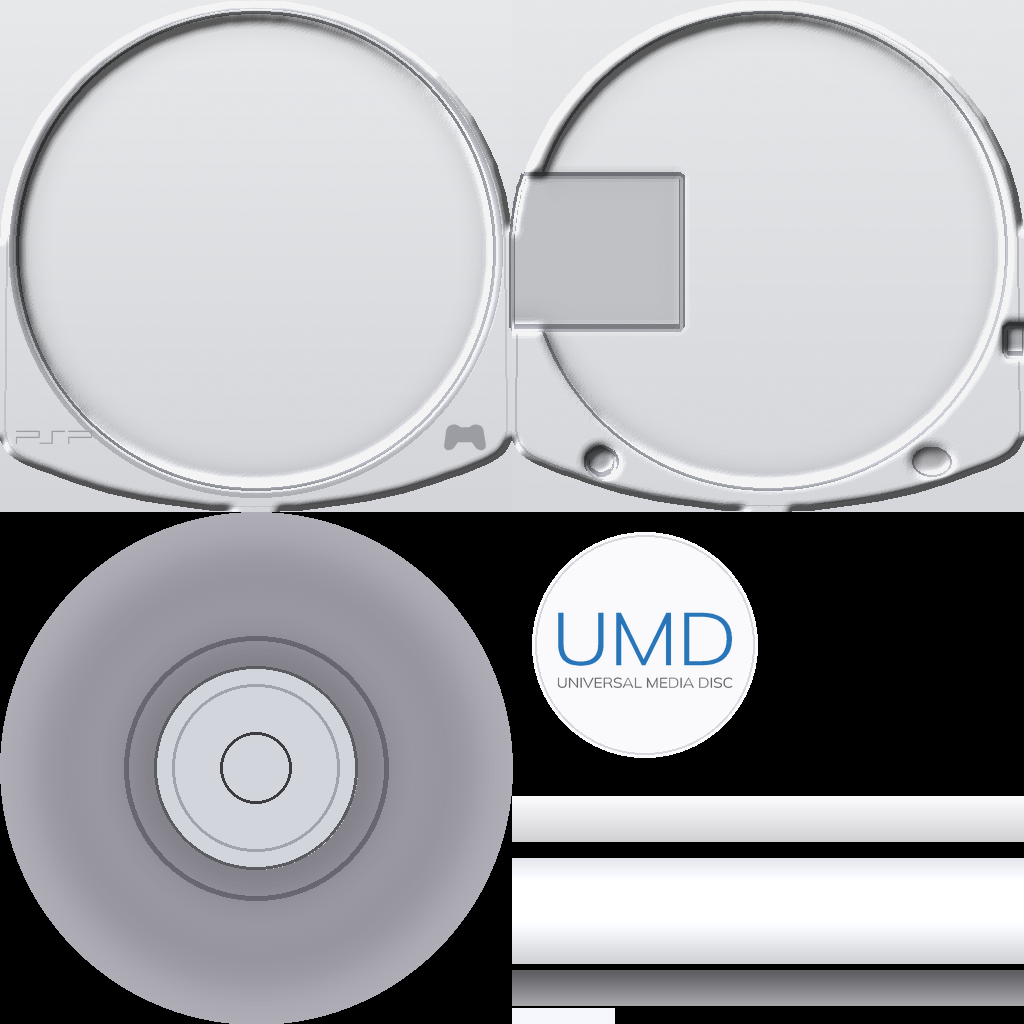
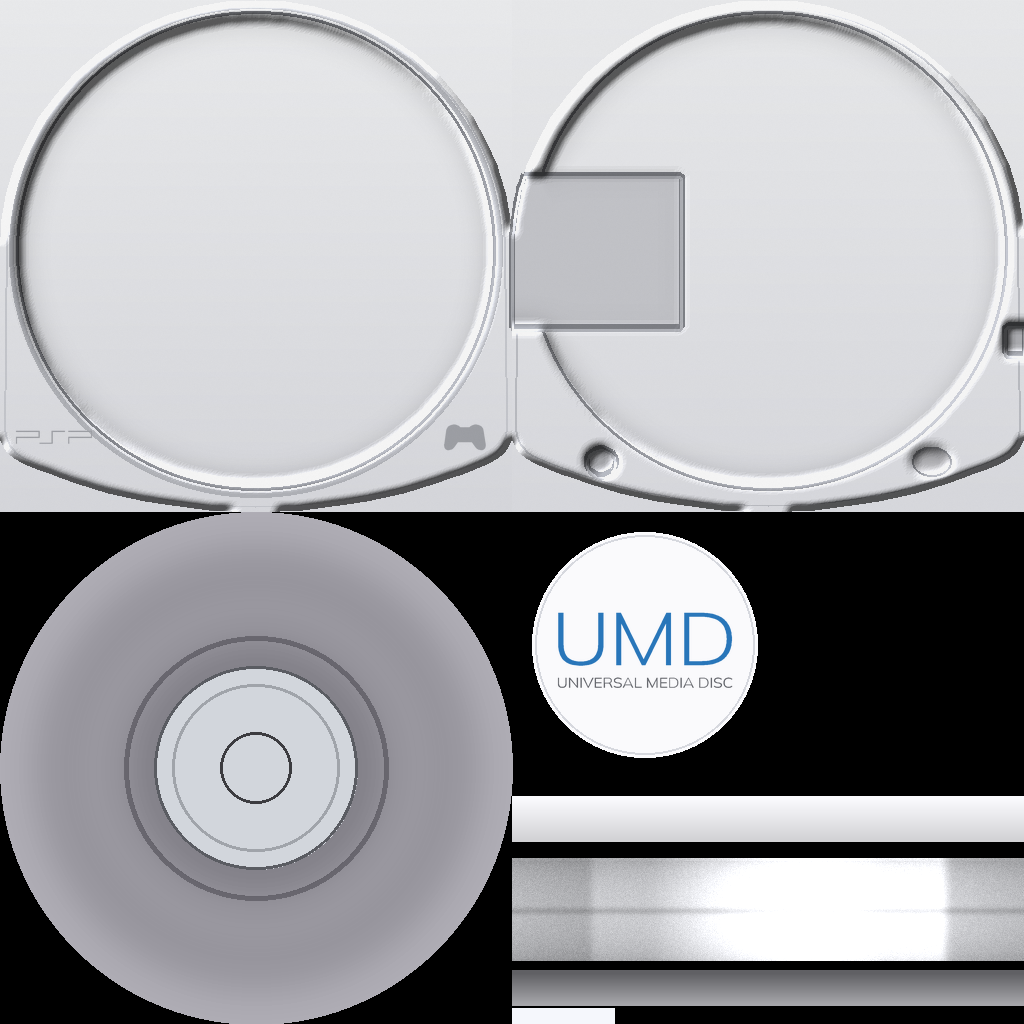
Side bands textured: lit by edge direction, parting line between the shell halves, bevel seams, plastic grain

Changed region(s): [[0.5, 0.8125, 0.6875, 0.9688], [0.6875, 0.8125, 1.0, 0.9688]]

diff --git a/fork/floating-media/gen.py b/fork/floating-media/gen.py
@@ -217,6 +217,44 @@ def side_strip(d, base, u0=0.0, uw=1.0, r0=0.55, r1=0.95):
         d.line([(u0 * TEX, r), ((u0 + uw) * TEX, r)], fill=tuple(int(min(255, c * (0.7 + 0.6 * k))) for c in base) + (255,))
 
 
+def side_strip_lit(d, img, base, outline, u0, uw, r0, r1, light=(-0.6, 0.8), grain=18, seam=True):
+    """Band texture that follows the outline: columns map to perimeter position (as band_sides
+    does), lit by the edge's outward normal (light from the top left), with a faint parting
+    line between the two shell halves, bright bevel seams and the same grain as the faces."""
+    import numpy as np
+    x0, x1 = int(u0 * TEX), int((u0 + uw) * TEX)
+    y0, y1 = int(r0 * TEX) - 2, int(r1 * TEX) + 2
+    w, h = x1 - x0, y1 - y0
+    n = len(outline)
+    per = [0.0]
+    for i in range(n):
+        per.append(per[-1] + math.dist(outline[i], outline[(i + 1) % n]))
+    tot = per[-1] or 1
+    # outward normal per edge -> lighting per perimeter position
+    cx = sum(p[0] for p in outline) / n
+    cy = sum(p[1] for p in outline) / n
+    lit = np.ones(w, np.float32)
+    for i in range(n):
+        p0, p1 = outline[i], outline[(i + 1) % n]
+        ex, ey = p1[0] - p0[0], p1[1] - p0[1]
+        nx, ny = ey, -ex
+        if (nx * (p0[0] - cx) + ny * (p0[1] - cy)) < 0:
+            nx, ny = -nx, -ny
+        ln = math.hypot(nx, ny) or 1
+        f = (nx * light[0] + ny * light[1]) / ln / math.hypot(*light)
+        a, b = int(per[i] / tot * w), max(int(per[i] / tot * w) + 1, int(per[i + 1] / tot * w))
+        lit[a:b] = 1.0 + 0.28 * f
+    lit = np.convolve(np.pad(lit, 3, mode="wrap"), np.ones(7) / 7, mode="same")[3:-3]
+    v = (np.arange(h, dtype=np.float32) - 2) / max(1, h - 5)          # 0 at one face edge, 1 at the other
+    prof = 0.86 + 0.22 * np.sqrt(np.sin(np.clip(v, 0, 1) * math.pi))     # rounded: brighter in the middle
+    prof = prof - 0.16 * np.exp(-((v - 0.5) / 0.035) ** 2) * (1 if seam else 0)   # parting line
+    prof[:3] *= 1.08; prof[-3:] *= 1.08                                 # lit seams at the bevels
+    tone = np.array(base, np.float32)[None, None, :] * (prof[:, None, None] * lit[None, :, None])
+    noise = np.random.default_rng(3).normal(0, grain, (h, w, 1))
+    arr = np.clip(tone + noise, 0, 255).astype(np.uint8)
+    img.paste(Image.fromarray(np.concatenate([arr, np.full((h, w, 1), 255, np.uint8)], -1), "RGBA"), (x0, y0))
+
+
 def radial(d, px, cx, cy, R, scale, shade):
     """Concentric fill: shade(rr) -> colour for radius rr (model units)."""
     c = px(cx, cy)
@@ -565,7 +603,7 @@ def vita_card():
     wy0, wy1 = int(0.70 * TEX), int(0.745 * TEX)
     d.rectangle([bx0, wy0, bx1, wy1], fill=(241, 242, 245, 255))
     d.text(((bx0 + bx1) / 2, (wy0 + wy1) / 2), "VCJS-10007", fill=(40, 42, 48, 255), font=font(int((wy1 - wy0) * 0.6), weight="regular"), anchor="mm")
-    side_strip(d, (70, 72, 80), 0.5, 0.5, 0.55, 0.95)
+    side_strip_lit(d, img, (58, 60, 68), outline, 0.5, 0.5, 0.55, 0.95, grain=9)
     for r in range(int(0.96 * TEX) - 2, int(0.99 * TEX) + 3):           # pocket wall rows: dark floor edge -> lit face edge
         t = min(1.0, max(0.0, (r - 0.96 * TEX) / (0.03 * TEX)))
         v = int(14 + 70 * t)
@@ -990,7 +1028,7 @@ def psp_umd():
         v = int(250 - 40 * t)
         d.line([(TEX // 2, r), (TEX, r)], fill=(v, v, v + 3, 255))
     # band
-    side_strip(d, (214, 215, 219), 0.5, 0.5, 0.84, 0.94)
+    side_strip_lit(d, img, (226, 227, 231), outline, 0.5, 0.5, 0.84, 0.94, grain=5)
     # inner wall of the window: dark under the lip, lighter towards the disc
     for r in range(int(0.95 * TEX) - 2, int(0.98 * TEX) + 3):
         t = min(1.0, max(0.0, (r - 0.95 * TEX) / (0.03 * TEX)))
